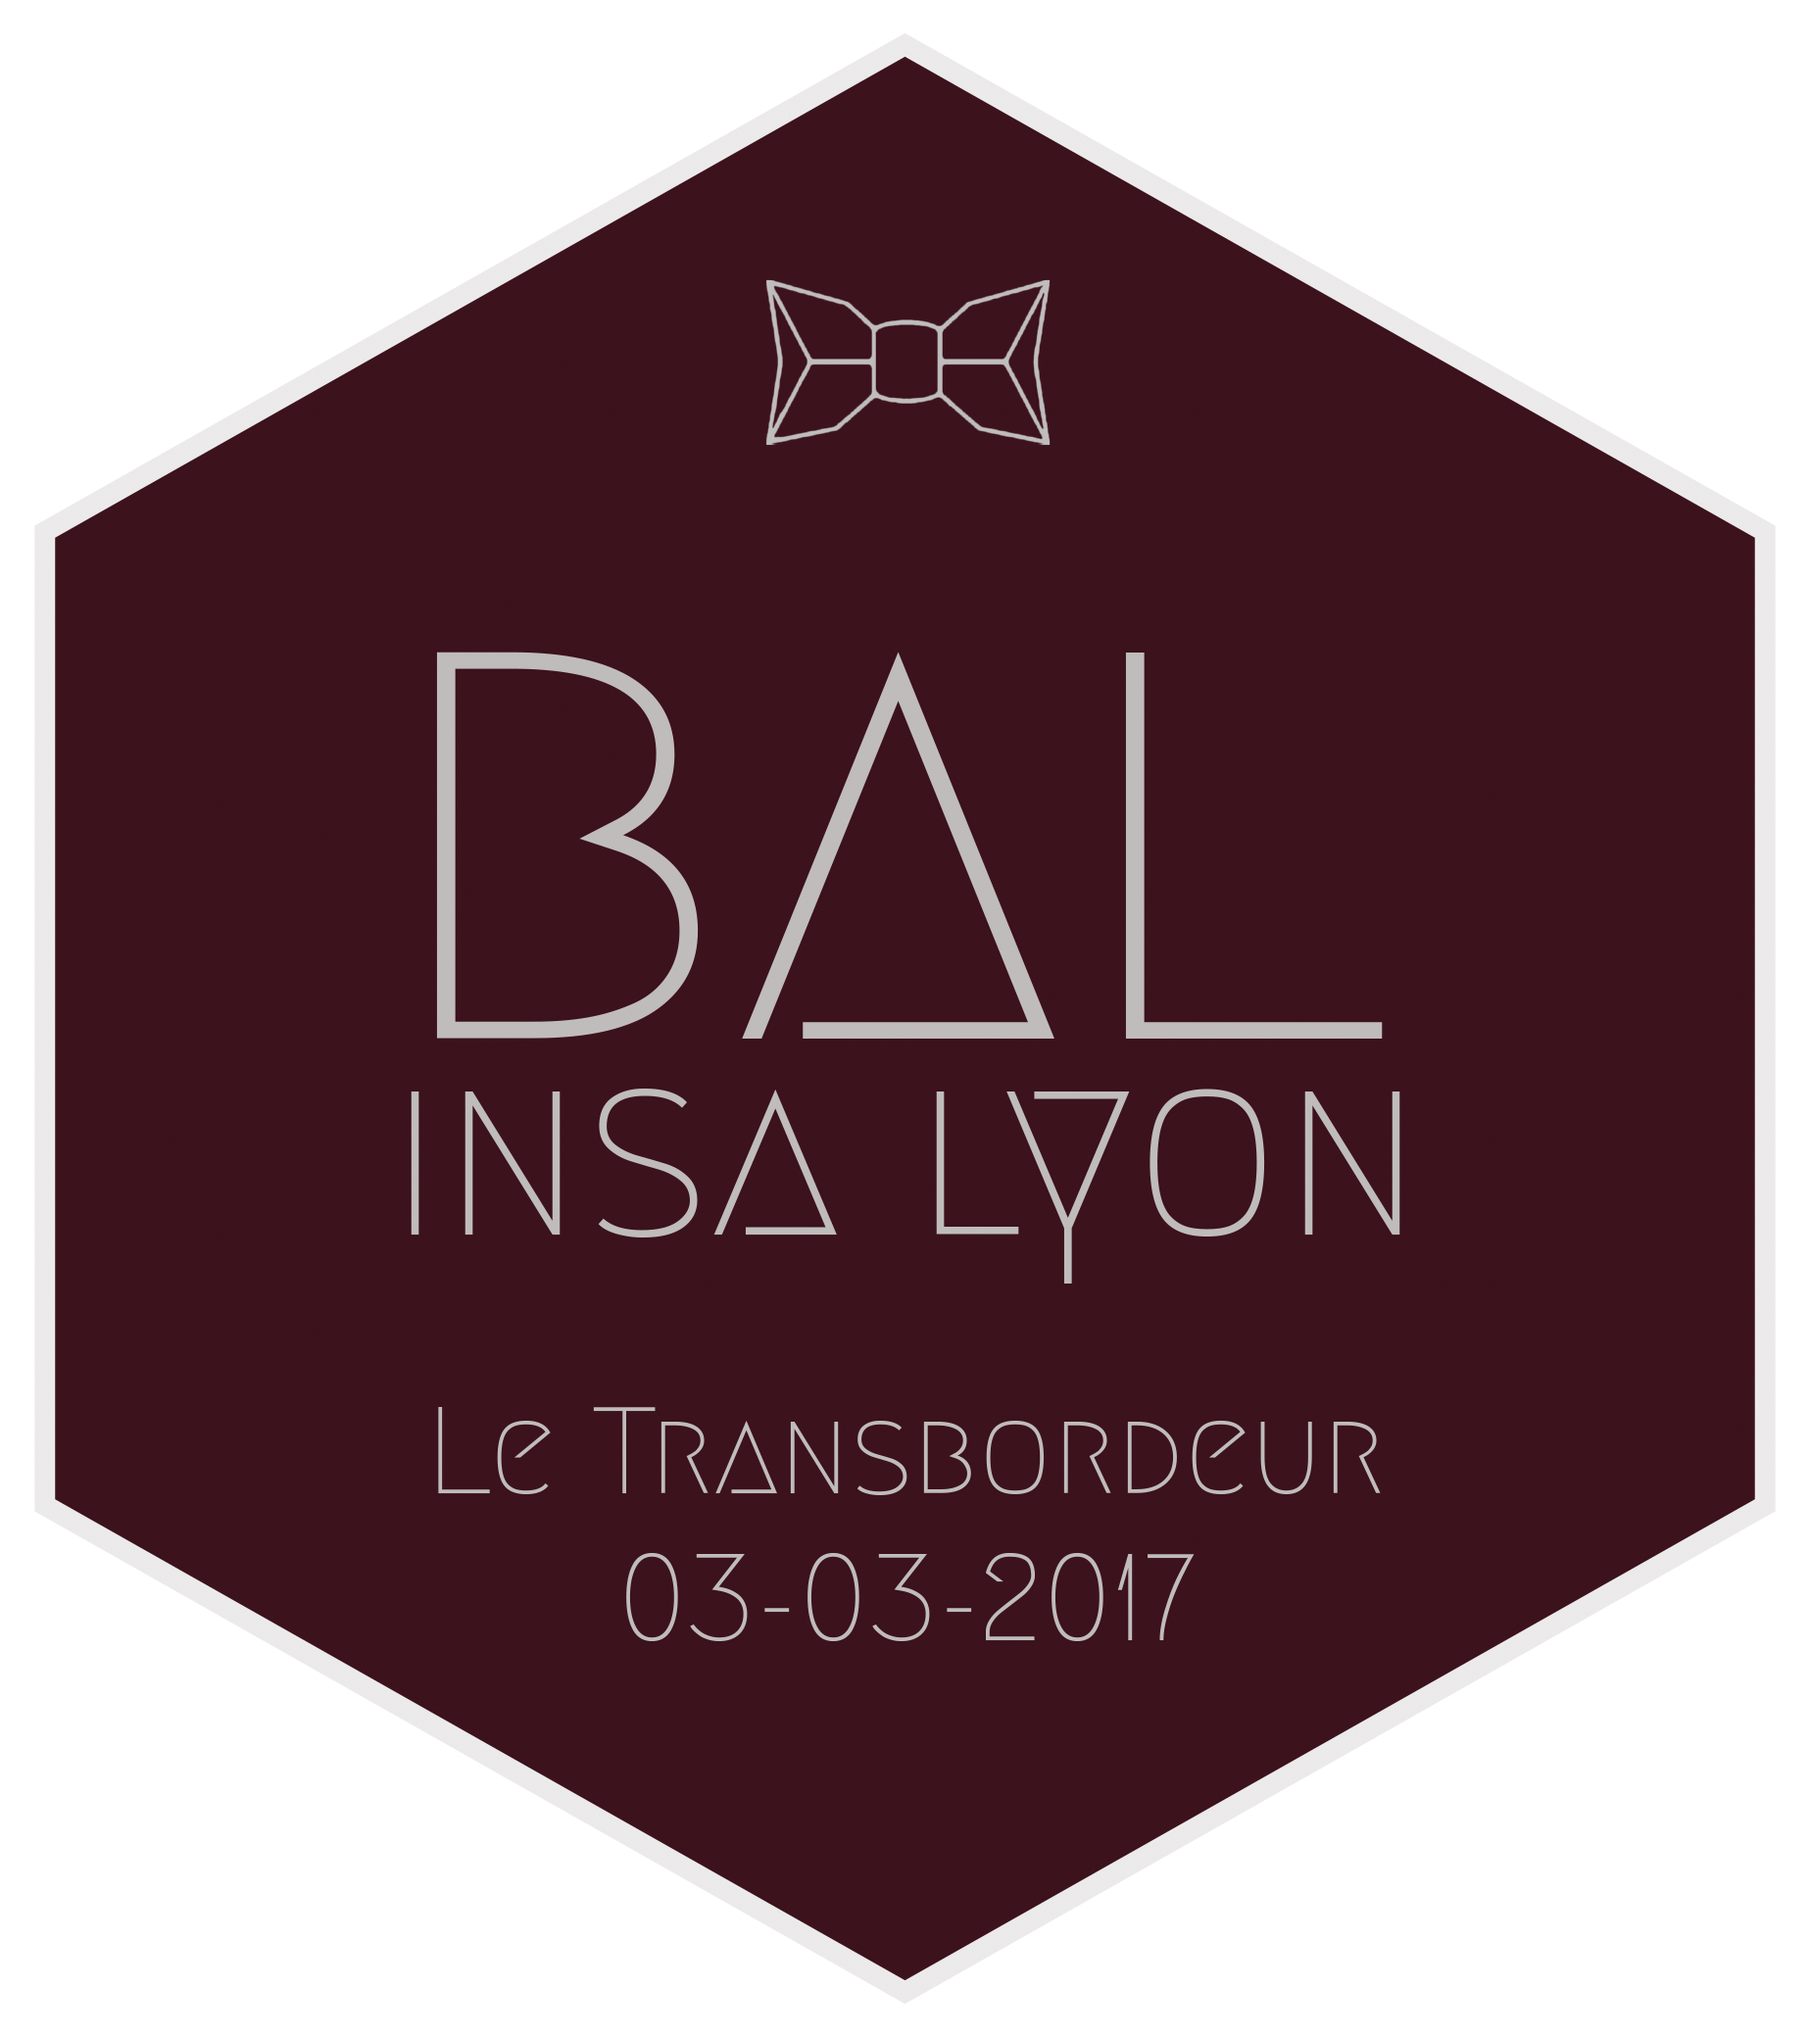
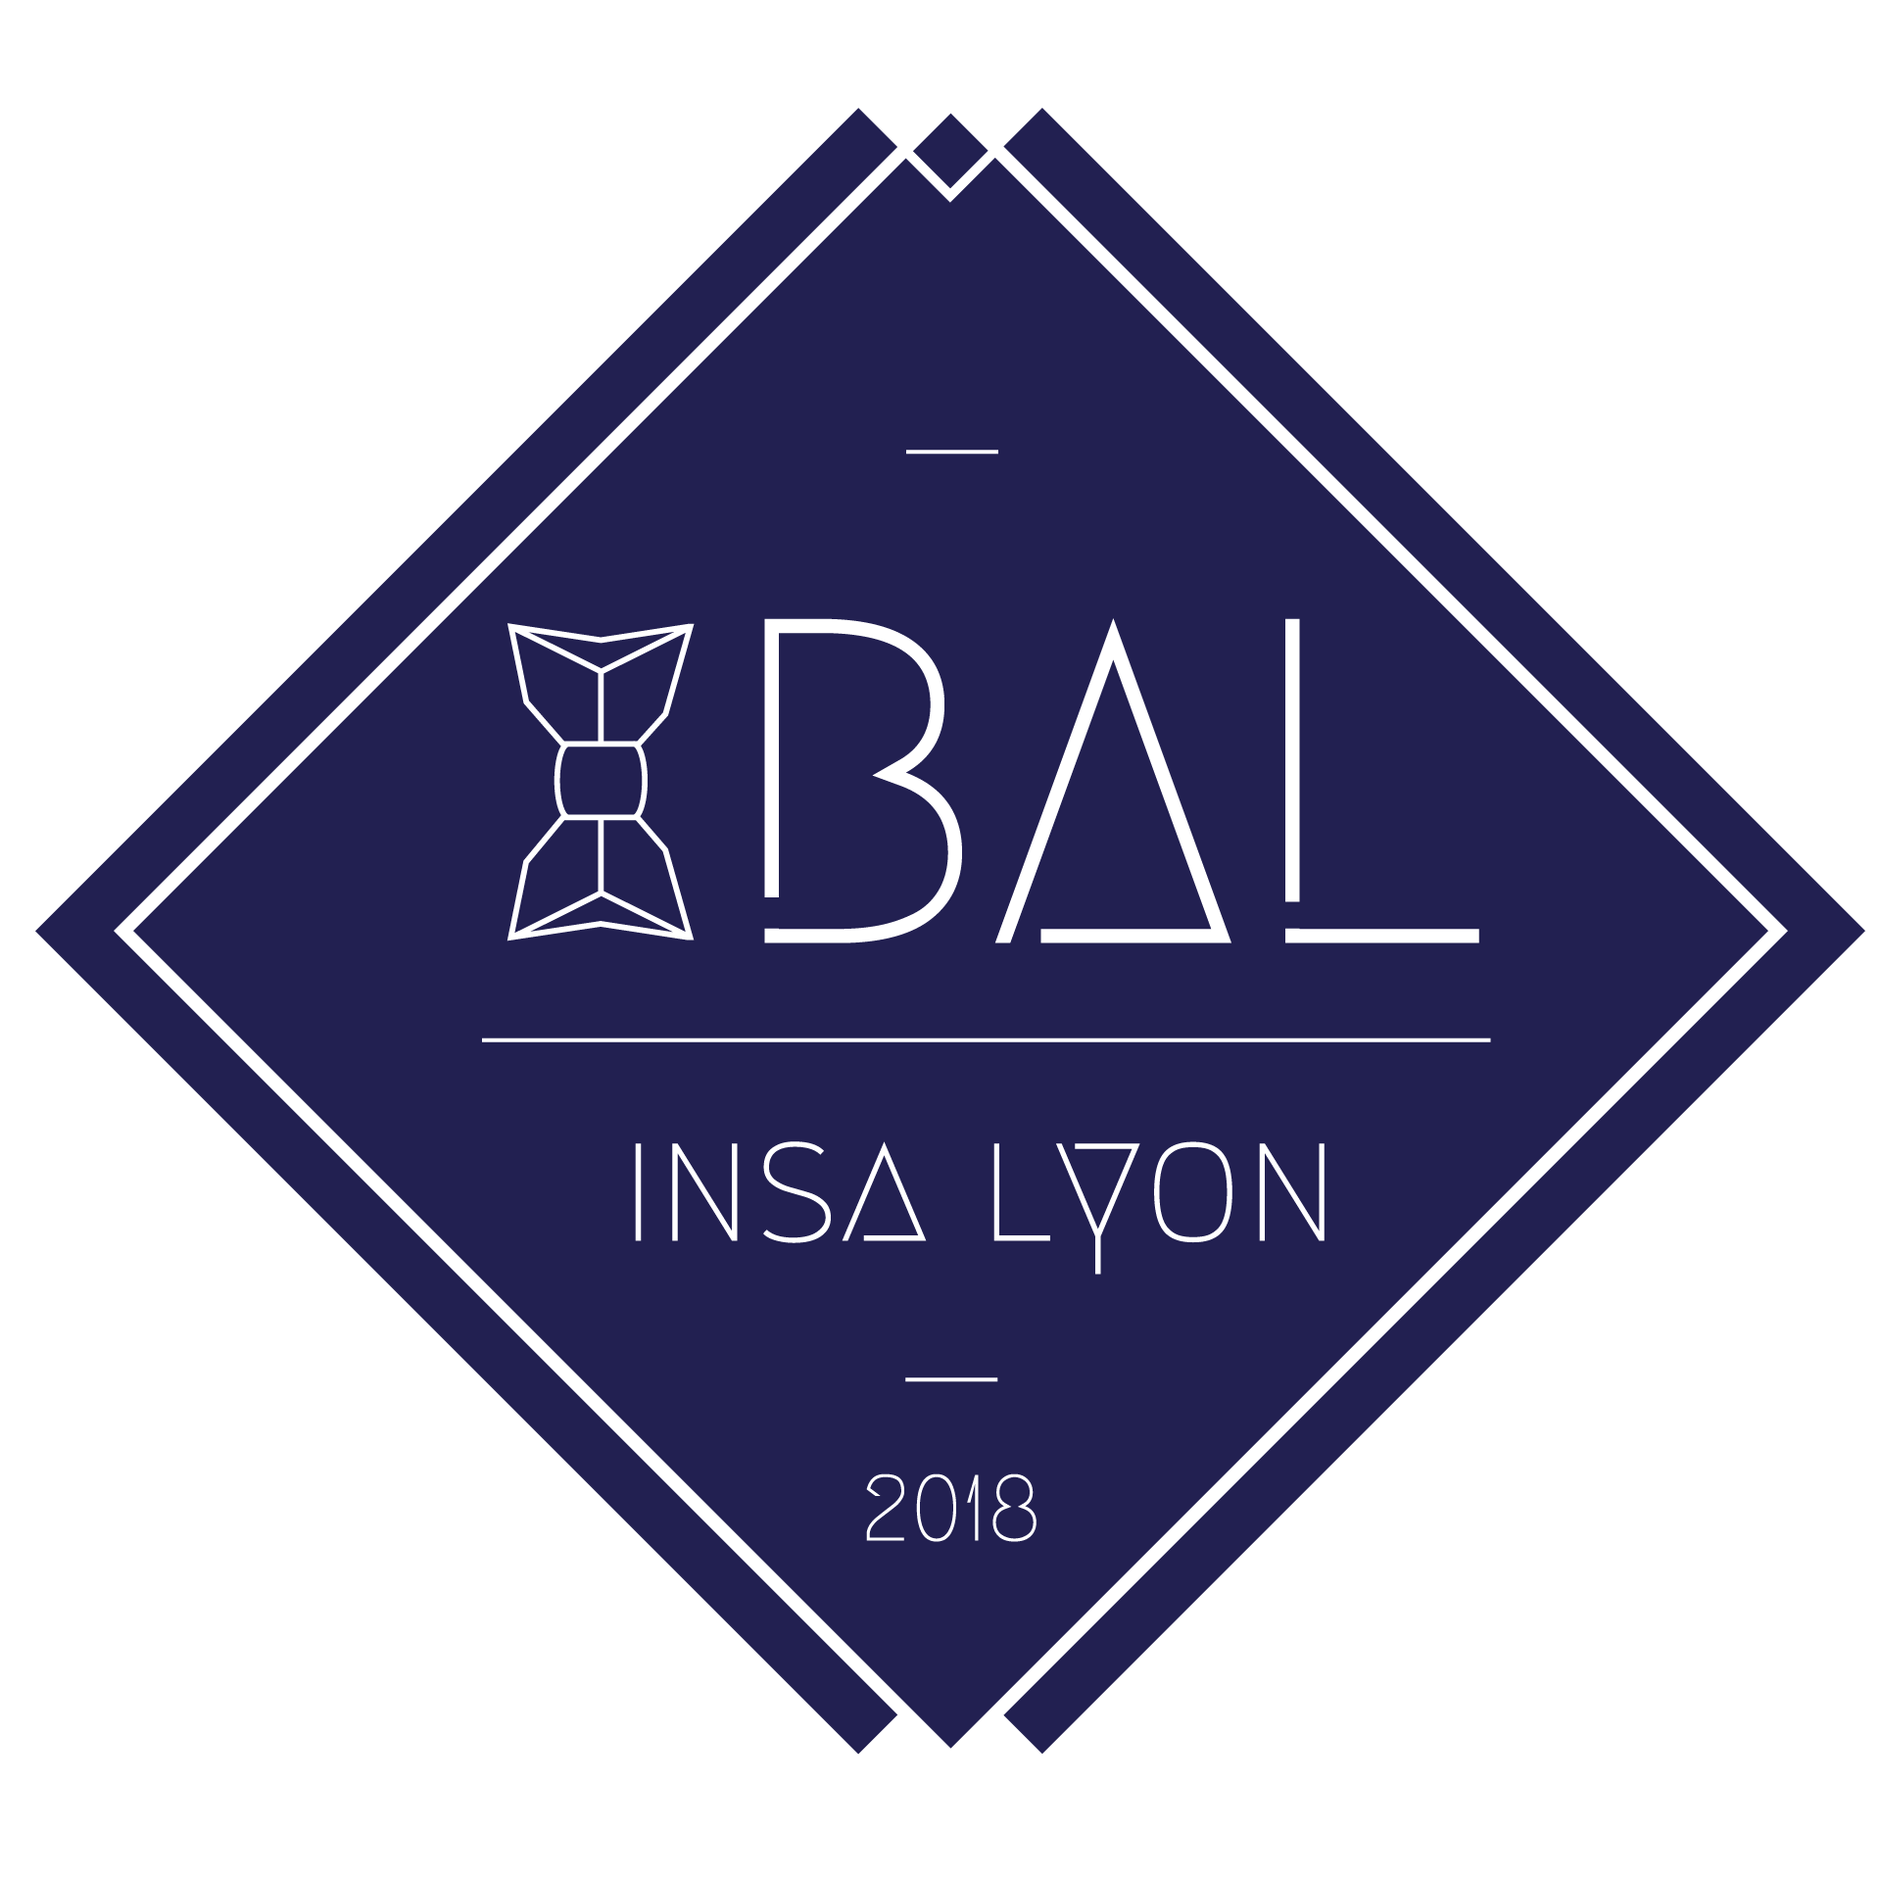
Update 2018

diff --git a/index.html b/index.html
@@ -101,12 +101,12 @@
                 <h2>La soirée</h2>
                 <p>Le BAL INSA Lyon, c’est l’événement prestige de l’INSA Lyon !</p>
                 <p>En plus des étudiants de l’école, le BAL INSA Lyon a pour objectif de réunir un maximum d’étudiants lyonnais afin de faire découvrir - ou redécouvrir - l’esprit INSA.</p>
-                <p>Vous êtes donc tous invités à partager une soirée habillée le 03 mars 2017 au Transbordeur !</p>
+                <p>Vous êtes donc tous invités à partager une soirée habillée le 27 avril 2018 au Transbordeur !</p>
 
-                <h3>AU PROGRAMME</h3>
-                <h3>Ofenbach - Mozambo - Fabich</h3>
-                <h4>Ruby cube - Ortella - Miku</h4>
-                <h4>Peacock - Asgard - Ragda - Club Rock - Slide</h4>
+                <h3>Dévoilement de la programmation le 15 mars lors de la soirée de lancement à la K-fet de l'INSA Lyon</h3>
+                <h3></h3>
+                <h4></h4>
+                <h4></h4>
                 
                 <p>En attendant, retrouve la playlist du Bal INSA Lyon 2017 en <a target="_blank" href="https://www.youtube.com/playlist?list=PLdxsQAGeZgrEIIfYacHxT6ON697EoBCBw">cliquant ici</a></p>
             </div>
@@ -121,7 +121,7 @@
                 <p>Tu as un groupe de musique et tu rêves de jouer sur la scène du Transbordeur ?</p>
                 <p>Le BAL INSA Lyon te donne l’occasion de participer à son Tremplin Jazz-Rock pour peut-être réaliser ce rêve !!</p>
 
-                <p>Le Tremplin a eu lieu le 02 février 2017 à la K-Fêt INSA Lyon. Le groupe Asgard l'a emporté et jouera le 3 mars dès 22h sur la scène du Transbordeur.</p>
+                <p>Le Tremplin aura lieu le 15 mars 2018 à la K-Fêt INSA Lyon. Rend-toi sur notre page facebook pour t'inscrire !</p>
             </div>
         </div>
     </section>
@@ -131,7 +131,7 @@
         <div class="row">
             <h2>Billetterie</h2>
            <!--<p>Attention : Les adhérents à la Vie Associative ( carte VA ) de l'INSA sont invités à se rendre aux points de ventes pour bénéficier des tarifs spéciaux: Grand Restaurant - RU - Accueil BdE</p>-->
-            <h3>Les toutes dernières places seront disponibles lundi 12/02 à partir de 12h15 à la maison des étudiants</h3>
+            <h3>La billetterie ouvrira aussi le 15 mars à l'occasion de la soirée de lancement</h3>
         </div>
     </section>
 
@@ -195,7 +195,7 @@
     <!-- Footer -->
     <footer>
         <div class="container text-center">
-          <p>Copyright &copy; <a href="http://bde-insa-lyon.fr/" alt="BDE INSA Lyon"><img src="img/logo_bde_insa_lyon.png" id="logo-bde-insa-lyon"></a> Bureau des Elèves de l'INSA Lyon 2016 - 2017</p>
+          <p>Copyright &copy; <a href="http://bde-insa-lyon.fr/" alt="BDE INSA Lyon"><img src="img/logo_bde_insa_lyon.png" id="logo-bde-insa-lyon"></a> Bureau des Elèves de l'INSA Lyon 2017 - 2018</p>
         </div>
     </footer>
 

diff --git a/css/grayscale.css b/css/grayscale.css
@@ -9,7 +9,7 @@ body {
     height: 100%;
     font-family: 'Raleway',"Helvetica Neue",Helvetica,Arial,sans-serif;
     color: #fff;
-    background-color: #3C121C;
+    background-color: #251a3f;
 }
 
 html {
@@ -66,7 +66,7 @@ a:focus {
     border-bottom: 1px solid rgba(255,255,255,.3);
     text-transform: uppercase;
     font-family: 'Megrim',"Helvetica Neue",Helvetica,Arial,sans-serif;
-    background-color: #3C121C;
+    background-color: #3e3072;
 }
 
 .navbar-custom .navbar-brand {
@@ -139,7 +139,7 @@ a:focus {
     }
 
     .navbar-custom.top-nav-collapse {
-        background: #3C121C;
+        background: #3e3072;
     }
 }
 
@@ -161,8 +161,8 @@ a:focus {
 .intro .intro-body {
     display: table-cell;
     vertical-align: middle;
-    background: rgba(60,18,28,0.5);
-    border-bottom: solid 1px #3C121C;
+    background: rgba(37, 26, 63,0.5);
+    border-bottom: solid 1px #251a3f;
 }
 
 .intro .intro-body .brand-heading {

diff --git a/css/custom.css b/css/custom.css
@@ -32,7 +32,7 @@
 }
 
 #about {
-    background-color: #3C121C;
+    background-color: #251a3f;
     width: 100%
 }
 
@@ -49,14 +49,14 @@
 #billetterie {
     padding-top: 100px;
     width: 100%;
-    background-color: #3C121C;
+    background-color: #251a3f;
 }
 
 #map {
     padding-top: 100px;
     width: 100%;
     height: 700px;
-    background-color: #3C121C;
+    background-color: #251a3f;
 }
 
 .map-overlay {
@@ -75,7 +75,7 @@
 
 #contact {
     width: 100%;
-    background-color: #3C121C;
+    background-color: #251a3f;
 }
 
 .btn {
@@ -93,5 +93,5 @@
 }
 
 footer {
-    background-color: #3C121C;
+    background-color: #251a3f;
 }
